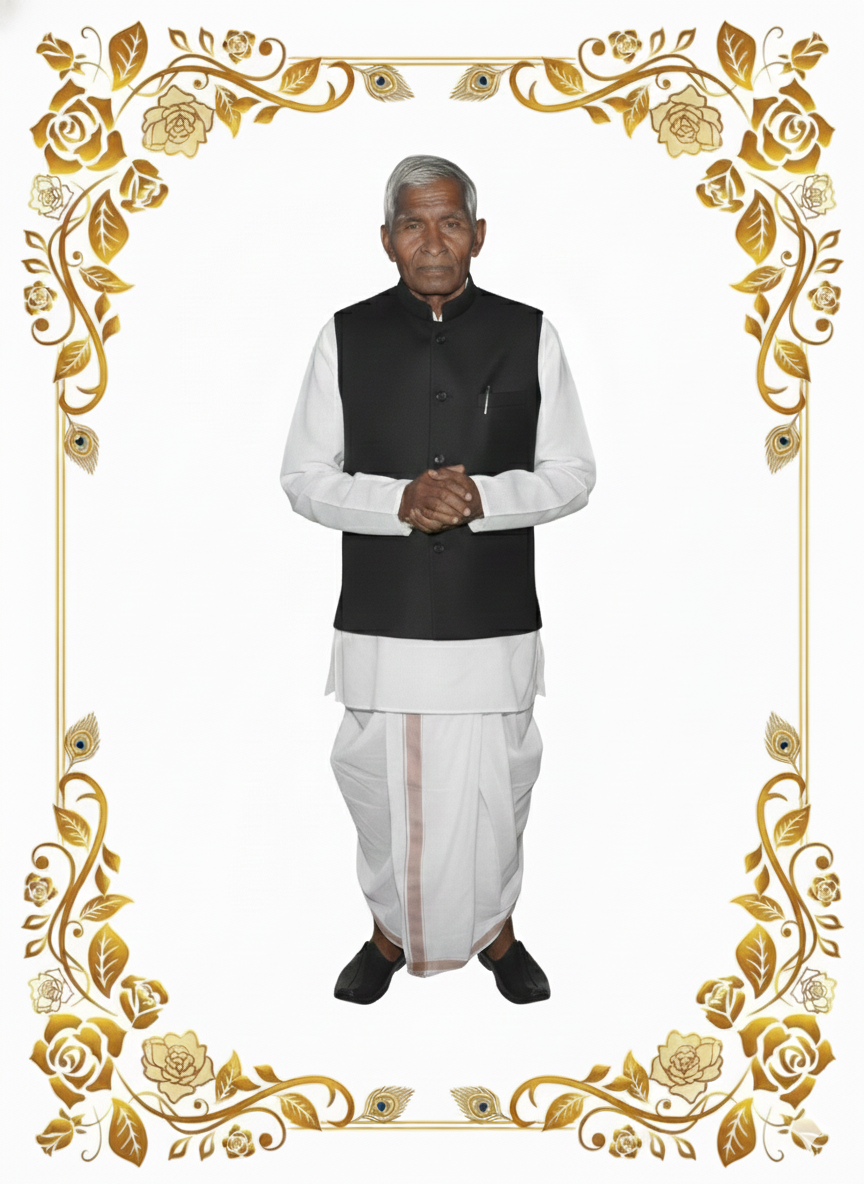
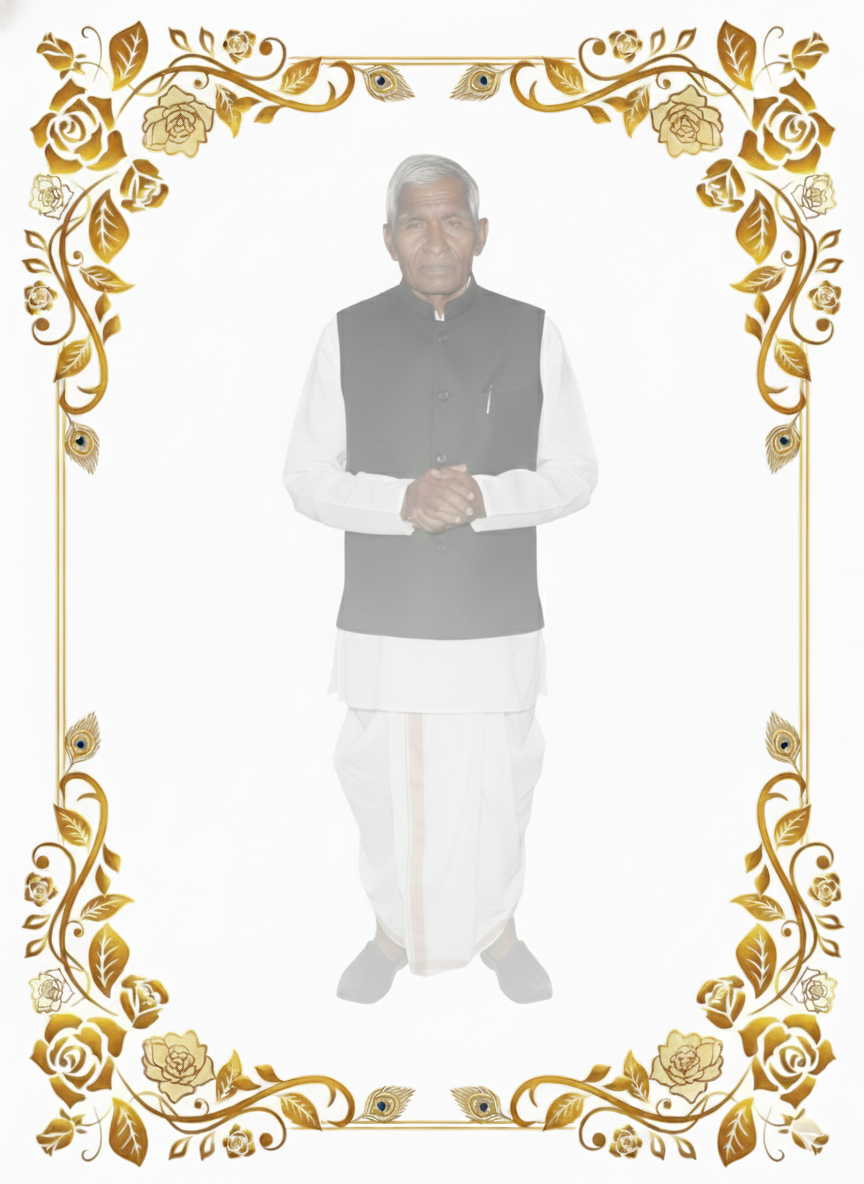
added pdf changes

diff --git a/src/utils/constants.js b/src/utils/constants.js
@@ -1,47 +1,6 @@
 export const sections = [
-    {
-        header: 'जीवन परिचय',
-        content: 'स्वर्गीय श्री परमेश्वर प्रसाद सिंह का जन्म सन 1944 ईस्वी में गया जिले के छोटका करासन गाँव में एक संस्कारी एवं प्रतिष्ठित परिवार में हुआ। आपकी माता श्रीमती कसीदा देवी, तथा पिता श्री करधनी महतो थे। चार भाई–बहनों में आप दूसरे स्थान पर थे। बचपन में ही पिता के निधन के बाद आपके शिक्षा-संस्कार और पारिवारिक मार्गदर्शन का दायित्व बड़े भाई श्री विश्वेश्वर प्रसाद तथा मामा जी ने संभाला।'
-    },
-    {
-        header: 'शिक्षा एवं प्रारंभिक जीवन',
-        content: `आपकी प्राथमिक शिक्षा गाँव के विद्यालय में तीसरी कक्षा तक हुई। सन् 1959 में आपने मध्य विद्यालय, इमामगंज से सातवीं कक्षा उत्तीर्ण की। सन् 1962 में उच्च विद्यालय, मैगरा से आपने matric की परीक्षा दी। मैट्रिक में सफलता न मिलने के बावजूद आप निराश नहीं हुए—बल्कि जीवन को एक नई दिशा दी। तत्पश्चात आपने निजी व्यवसाय आरंभ किया और मेहनत व सत्यनिष्ठा से उसे विकसित किया।`
-    },
-    {
-        header: 'सार्वजनिक जीवन की शुरुआत',
-        content: `सन् 1965 में आपने Cooperative Society के अध्यक्ष पद का चुनाव लड़ा और जनता के अपार प्रेम से विजयी हुए। आप 1965 से 1972 तक अध्यक्ष रहे और सहयोग, पारदर्शिता तथा सेवा भाव से इस पद को गौरवान्वित किया। 
-        1967 के अकाल के दौरान आपने कंट्रोल/जन वितरण प्रणाली द्वारा गरीबों एवं जरूरतमंदों को अनाज उपलब्ध करवाया। इस सेवा से आपको जनता का स्नेह, विश्वास और व्यापक समर्थन मिला। सन् 1972 में आप मलहारी ग्राम पंचायत के मुखिया चुने गए। 1978 में पुनः निर्वाचित हुए और 2001 तक निरंतर इस पद पर रहते हुए समाज-सेवा करते रहे।`
-    },
-    {
-        header: 'हरित क्रांति में महत्त्वपूर्ण भूमिका',
-        content: `1970 के दशक में हरित क्रांति जब देशभर में फैल रही थी, तब आपने इसे अपने गाँव और पंचायत में लाने का बीड़ा उठाया। आपने कृषि मशीनों का उपयोग, उन्नत बीजों का प्रचार, उर्वरकों के वैज्ञानिक उपयोग, कृषक जागरूकता कार्यक्रम के माध्यम से किसानों की उपज और समृद्धि में अत्यंत महत्वपूर्ण योगदान दिया।`
-    },
-    {
-        header: 'संपूर्ण क्रांति और समाजवादी आंदोलन',
-        content: `सन् 1974 में प्रारंभ हुए संपूर्ण क्रांति में आपने सक्रिय भागीदारी की। आप समाजवादी नेता डॉ. राम मनोहर लोहिया के विचारों से गहराई से प्रभावित थे और उनके सिद्धांतों को समाज में फैलाने का कार्य करते रहे। 
-        आपके निकट सहयोगी बद्री बाबू (वर्तमान में चतरा निवासी) के साथ मिलकर आपने क्षेत्र के सभी समाजवादी नेताओं को एक मंच पर लाने का कार्य किया, जिससे समाजवादी आंदोलन को नई शक्ति मिली।`
-    },
-    {
-        header: '1977 का आम चुनाव एवं ईश्वर दास की विजय में भूमिका',
-        content: `सन् 1977 के आम चुनाव में इमामगंज से ईश्वर दास विधायक निर्वाचित हुए। उन चुनावों में आपकी सक्रिय भूमिका और संगठन क्षमता ने ईश्वर दास की जीत में महत्त्वपूर्ण योगदान दिया। विधायक बनने के बाद ईश्वर दास आपका अत्यधिक सम्मान करते थे और क्षेत्र के विकास कार्यों के लिए आपसे निरंतर परामर्श लेते थे। 
-        1978 के पंचायत चुनाव में ईश्वर दास ने जनता से यह अपील भी की कि "परमेश्वर प्रसाद सिंह को मुखिया बनाइए, ये आपके सच्चे और ईमानदार प्रतिनिधि होंगे।" जनता ने इसे स्वीकार किया और आपको भारी मतों से विजय मिली।`
-    },
-    {
-        header: 'जनता दल में भूमिका और विकास कार्य',
-        content: `80 के दशक के अंत में जनता दल के गठन के समय आप इसकी मुख्य धुरी रहे और इमामगंज प्रखंड के जनता दल प्रखंड अध्यक्ष बने। जब उदय नारायण चौधरी विधायक बने, तब आप उनके विधायक प्रतिनिधि के रूप में क्षेत्र के विकास कार्यों का नेतृत्व करते रहे। 
-        इमामगंज तब अत्यंत पिछड़ा क्षेत्र था। आपके मार्गदर्शन में पेयजल योजनाएँ हैंडपंपों की स्थापना पुल-पुलियों का निर्माण सड़कों का विकास जैसे अनेक जनकल्याणकारी कार्य हुए। इसके बाद आप 20 सूत्री योजना समिति के प्रखंड अध्यक्ष भी बने और सरकारी योजनाओं को गाँव-गाँव तक पहुँचाया।`
-    },
-    {
-        header: 'शैक्षणिक संस्थानों में योगदान',
-        content: `विधायक प्रतिनिधि होने के नाते इमामगंज प्रखंड के अधिकांश उच्च विद्यालय, +2 उच्च विद्यालय की प्रबंध समिति के अध्यक्ष पद पर आप सुशोभित हुए। आप संजय गांधी इंटर कॉलेज, इमामगंज के प्रबंध समिति अध्यक्ष और प्रोजेक्ट कन्या विद्यालय, इमामगंज की विद्यालय समिति के भी अध्यक्ष रहे। आपने गरीब एवं कमजोर तबके के छात्रों के नामांकन शुल्क माफी विद्यालयी समस्याओं के समाधान शैक्षणिक वातावरण सुधार जैसे उल्लेखनीय कार्य किए।`
-    },
-    {
-        header: 'युवक संघ और सामाजिक जागरण',
-        content: `श्री परमेश्वर प्रसाद सिंह युवक संघ जैसे सामाजिक संगठन से सक्रिय रूप से जुड़े रहे। उन्होंने सामाजिक कुरीतियों, कुप्रथाओं और रूढ़िवादी सोच के खिलाफ आवाज उठाई और समाज सुधार के लिए संघर्षरत रहे। इनके सहयोग से युवक संघ का दो-दो सम्मेलन इस क्षेत्र में संपन्न हुआ, प्रथम झिकटिया युवक सम्मेलन और दूसरा वलीचक युवक सम्मेलन, जिसमें इनकी सक्रिय भागीदारी रही। उस समय ये युवक संघ के इमामगंज और डुमरिया के संयुक्त रूप से अंचल मंत्री हुआ करते थे। युवक संघ के बैनर तले दहेज प्रथा का विरोध किया गया। रूढ़िवादी प्रथा और कुरीतियों के विरुद्ध ये संघर्ष करते रहे। युवक संघ के द्वारा एक नाटक का प्रारूप भी तैयार किया गया था, जिसमें दहेज प्रथा की कुरीतियों के बारे में बताया गया था। 
-        
-        छात्र जीवन में प्रथम विधायक जगलाल महतो का सान्निध्य इन्हें प्राप्त हुआ। चूँकि जगलाल महतो का ननिहाल इसी छोटका करासन गाँव में था और उनका हमेशा आना-जाना लगा रहता था, इसलिए राजनीतिक रूप से इनसे प्रभावित हुए और आगे चलकर ये  राजनीति से भी जुड़े। इसलिए इनके राजनीतिक जीवन में जगलाल महतो का भी योगदान रहा है, जो शेरघाटी विधानसभा क्षेत्र के प्रथम विधायक थे। श्री उपेंद्रनाथ वर्मा द्वारा संपादित "मूक आवाज़" पत्रिका के यह आजीवन सदस्य रहे।`
 
-    },
+
     {
         header: 'इमामगंज को विधान सभा क्षेत्र बनाने में सहयोग',
         content: `देश आजाद होने के बाद शेरघाटी विधान सभा क्षेत्र बना था। उस समय इमामगंज के करमौन गांव के स्वतंत्रता सेनानी जगलाल महतो प्रथम विधायक बने थे। उसके बाद आपने जगलाल महतो जी से संपर्क कर इमामगंज को विधानसभा क्षेत्र बनाने में सहयोग किया था। आपने अपने पंचायत गांव के विकास के लिए अंतिम सासों तक लगे रहे। जिसका परिणाम रहा कि आपने अपने पंचायत के लिए दुबहल और मुनबार में पुल का निर्माण कराने का काम किया। 

diff --git a/src/components/JeevanParichay.jsx b/src/components/JeevanParichay.jsx
@@ -3,15 +3,16 @@ import { sections } from "../utils/constants";
 export default function JeevanParichay() {
     return (
         <div
-            className="repeat bg-top"
+            className="bg-top"
             style={{
                 backgroundImage: "url('background_ppsingh2.png')",
                 backgroundSize: "contain",
+                marginTop: "20px",
             }}
         >
 
             {/* Outer Modern Border + Soft Glow */}
-            <div className="bg-white/80">
+            <div className="bg-white/35">
 
                 {/* ==== Shradhanjali Heading ==== */}
                 <br />
@@ -20,38 +21,27 @@ export default function JeevanParichay() {
                 <div className="relative w-40 h-40 sm:w-48 sm:h-48 mx-auto mb-6">
 
                     {/* Profile Photo */}
-                    <img
-                        src="father.png"
-                        alt="स्वर्गीय श्री परमेश्वर प्रसाद सिंह"
-                        className="w-full h-full rounded-full object-cover border-4 border-[#d4a74b] shadow-lg"
-                    />
 
-                    {/* Garland PNG */}
-                    {/* <img
-                        src="https://i.imgur.com/h6EUxHj.png"
-                        alt="Flower Garland"
-                        className="absolute inset-0 w-full h-full pointer-events-none"
-                    /> */}
                 </div>
                 <div className="text-center mb-4">
                     <h2 className="text-4xl font-bold text-gray-800 tracking-wide">
-                        🙏 श्रद्धांजलि 🙏
+                        <br />
                     </h2>
                 </div>
 
                 {/* === Name & Dates === */}
                 <div className="text-center mb-6">
                     <h1 className="text-3xl font-bold text-gray-900">
-                        स्वर्गीय श्री परमेश्वर प्रसाद सिंह
+                        <br />
                     </h1>
 
                     <p className="text-lg font-semibold mt-1 text-gray-700">
-                        (जन्म - 02 जनवरी 1944  •  पुण्य तिथि - 22 नवम्बर 2025)
+
                     </p>
                 </div>
 
                 {/* ==== Share Buttons ==== */}
-                <div className="mt-4 flex justify-center gap-4 mb-8">
+                {/* <div className="mt-4 flex justify-center gap-4 mb-8">
                     <a
                         href={`https://wa.me/?text=${encodeURIComponent(`
                             स्वर्गीय श्री परमेश्वर प्रसाद सिंह 
@@ -75,14 +65,14 @@ export default function JeevanParichay() {
                     >
                         Facebook पर शेयर करें
                     </a>
-                </div>
+                </div> */}
 
                 {/* ==== Sections with Modern Separators ==== */}
                 {
                     sections.map((section, index) => (
-                        <div key={index} className="mb-8"
+                        <div key={index} className="mb-4"
                             style={{
-                                padding: "0 3.5rem"
+                                padding: "0 11rem"
                             }}
                         >
                             <h2 className="text-xl font-bold mb-2 text-gray-900">
@@ -100,10 +90,34 @@ export default function JeevanParichay() {
                         </div>
                     ))
                 }
+                <br></br>
                 {/* ==== QR Code Share Section ==== */}
                 <div className="text-center mt-10 mb-8">
                     <h2 className="text-xl font-bold text-gray-900 mb-3">
                         व्हाट्सऐप और फ़ेसबुक पर साझा करने के लिए QR कोड स्कैन करें
+                    </h2>
+
+                    <div className="flex justify-center">
+                        <img
+                            src="ppsingh_qrcode.png"
+                            alt="QR Code for Sharing"
+                            className="w-40 h-40 sm:w-48 sm:h-48 shadow-lg rounded-lg border border-gray-300"
+                        />
+                    </div>
+
+                    <p className="text-gray-700 text-sm mt-3">
+                        (मोबाइल कैमरा से स्कैन करें और सीधे श्रद्धांजलि पेज खोलें)
+                    </p>
+                </div>
+                {/* ==== QR Code Share Section ==== */}
+                <div className="text-center mt-10 mb-8">
+                    <h2 className="text-xl font-bold text-gray-900 mb-3">
+                        <br />
+                        <br />
+                        <br />
+                        <br />
+                        <br />
+                        <br />
                     </h2>
 
                     <div className="flex justify-center">
